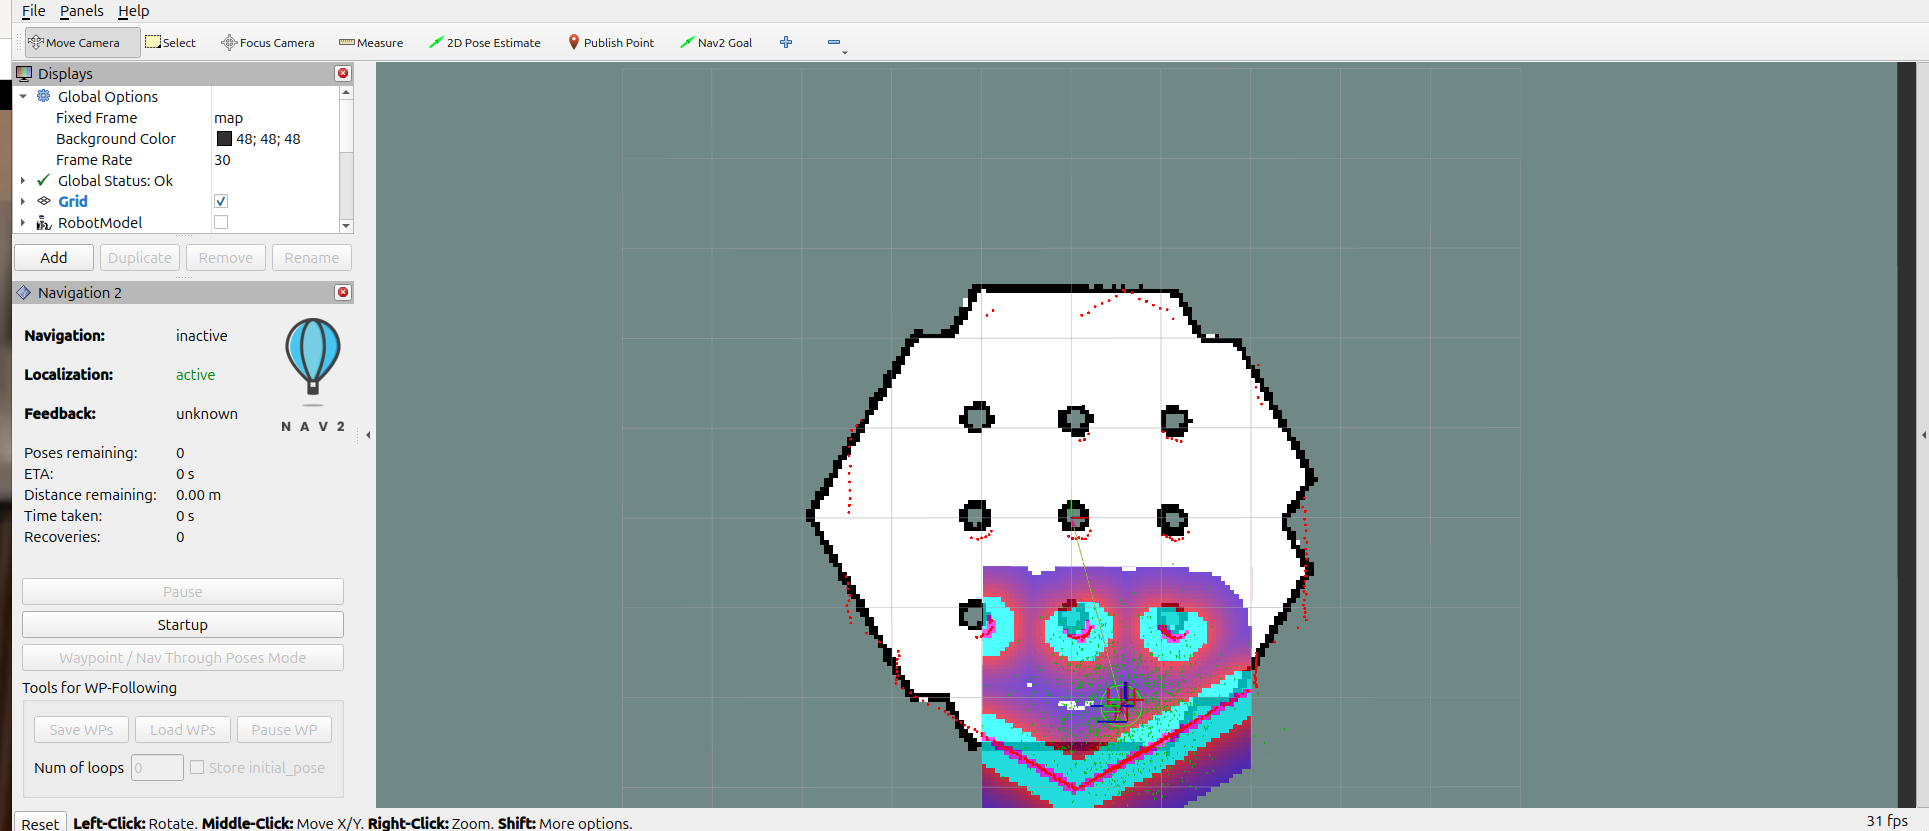
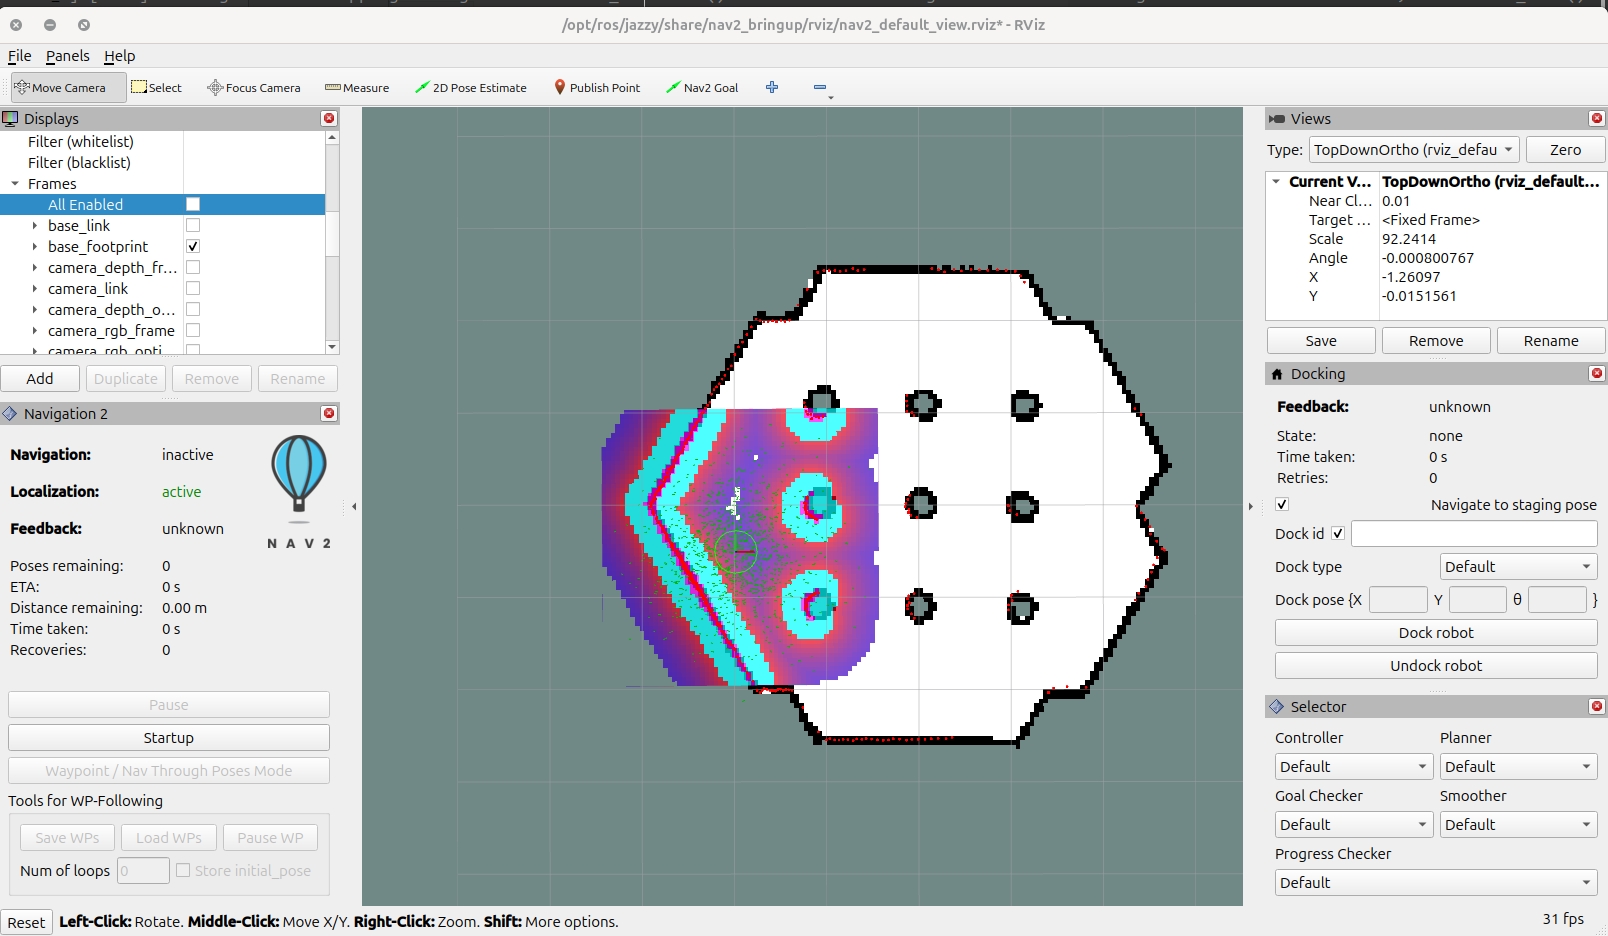
Modify getting started section with new images and new instructions for jazzy

diff --git a/getting_started/index.rst b/getting_started/index.rst
@@ -1,35 +1,35 @@
 Getting Started
 ===============================
 
-Currently, the MOCAP4ROS2 packages are not available as Debian packages in any ROS 2 distribution; therefore, you must install them from source. The main branches of each repository are aligned with the Rolling distribution of ROS 2.
+Currently, the MOCAP4ROS2 packages are not available as Debian packages in any ROS 2 distribution; therefore, you must install them from source. The main branches of each repository usually point to the latest distribution available on ROS2.
 
 MOCAP4ROS2 supports motion capture systems, most of which are commercial. Typically, you should proceed to one of the sections that explain how to install and configure your specific system. However, for this "getting started" section, we will use the driver for Gazebo.
 
 This section provides a step-by-step approach for setting up and running the MOCAP4ROS2 simulation environment. Please follow these instructions carefully to ensure a smooth setup.
 
-.. contents:: Steps
-   :local:
-   :depth: 1
-   :class: toctree
-
 1. Clone the Repositories
--------------------------
+
 Begin by cloning the necessary repositories into your ``src`` folder inside your workspace (e.g., ``mocap4r2_ws``):
 
 .. code-block:: console
 
-    git clone https://github.com/MOCAP4ROS2-Project/mocap4ros2_gazebo.git
+    git clone -b jazzy-devel https://github.com/MOCAP4ROS2-Project/mocap4ros2_gazebo.git
 
 2. Install Dependencies
------------------------
+
 To install all required dependencies, use the `.repos` file provided:
 
 .. code-block:: console
 
     vcs import < mocap4ros2_gazebo/dependency_repos.repos
 
+.. code-block:: console
+
+    rosdep update # May not be needed if already done
+    cd .. && rosdep install --from-paths src --ignore-src -r -y
+
 3. Build the Workspace
-----------------------
+
 Once the repositories and dependencies are in place, build the workspace using `colcon`:
 
 .. code-block:: console
@@ -40,14 +40,14 @@ Once the repositories and dependencies are in place, build the workspace using `
 
     colcon build --symlink-install
 
-4. Launch the Simulator
------------------------
+4. Launch the Simulator  with "a marker". Remember to use the "2D Pose Estimate" tool in Rviz2 (in toolbar) to set the robot position (it is around (X: -2, Y: -0.5, Yaw: 0.0) ).
+
 Source your workspace and launch the TurtleBot3 simulation with the following commands:
 
 .. code-block:: console
 
     source install/setup.bash
-    ros2 launch mocap4r2_gz_plugin tb3_simulation_launch.py
+    ros2 launch mocap4r2_gz_plugin tb3_simulation_launch.py headless:=False
 
 .. |image1| image:: images/getting_started_4a.png
    :width: 400px
@@ -61,15 +61,15 @@ Source your workspace and launch the TurtleBot3 simulation with the following co
 | |image1| + |image2| +
 +----------+----------+
 
-To visualize the simulation in Gazebo, execute the following command:
+This will automatically open Gazebo:
 
-.. code-block:: console
-
-    gz sim
-
-.. image:: images/getting_started_4c.png
+.. |image3| image:: images/getting_started_4c.png
    :width: 500px
    :align: middle
+
++----------+
+| |image3| +
++----------+
 
 5. Run RQT Gui and Load the MocapControl Plugin
 ----------------------------------------------
@@ -108,7 +108,7 @@ To run the ground truth program, use the following command:
 
     mocap4r2_ws$ ros2 run mocap4r2_robot_gt gt_program --ros-args -p robot_frame:=map
 
-Check in Rviz how a new frame, `base_footprint_gt` exists and is the real robot position. Move the robot and see how this TF track the robot position.
+Check in Rviz how a new frame, `base_footprint_gt` exists and it is the real robot position. Move the robot and see how this TF track the robot position.
 
 
 Press the button "Stop" in MocapControl to stop the gazebo mocap.
